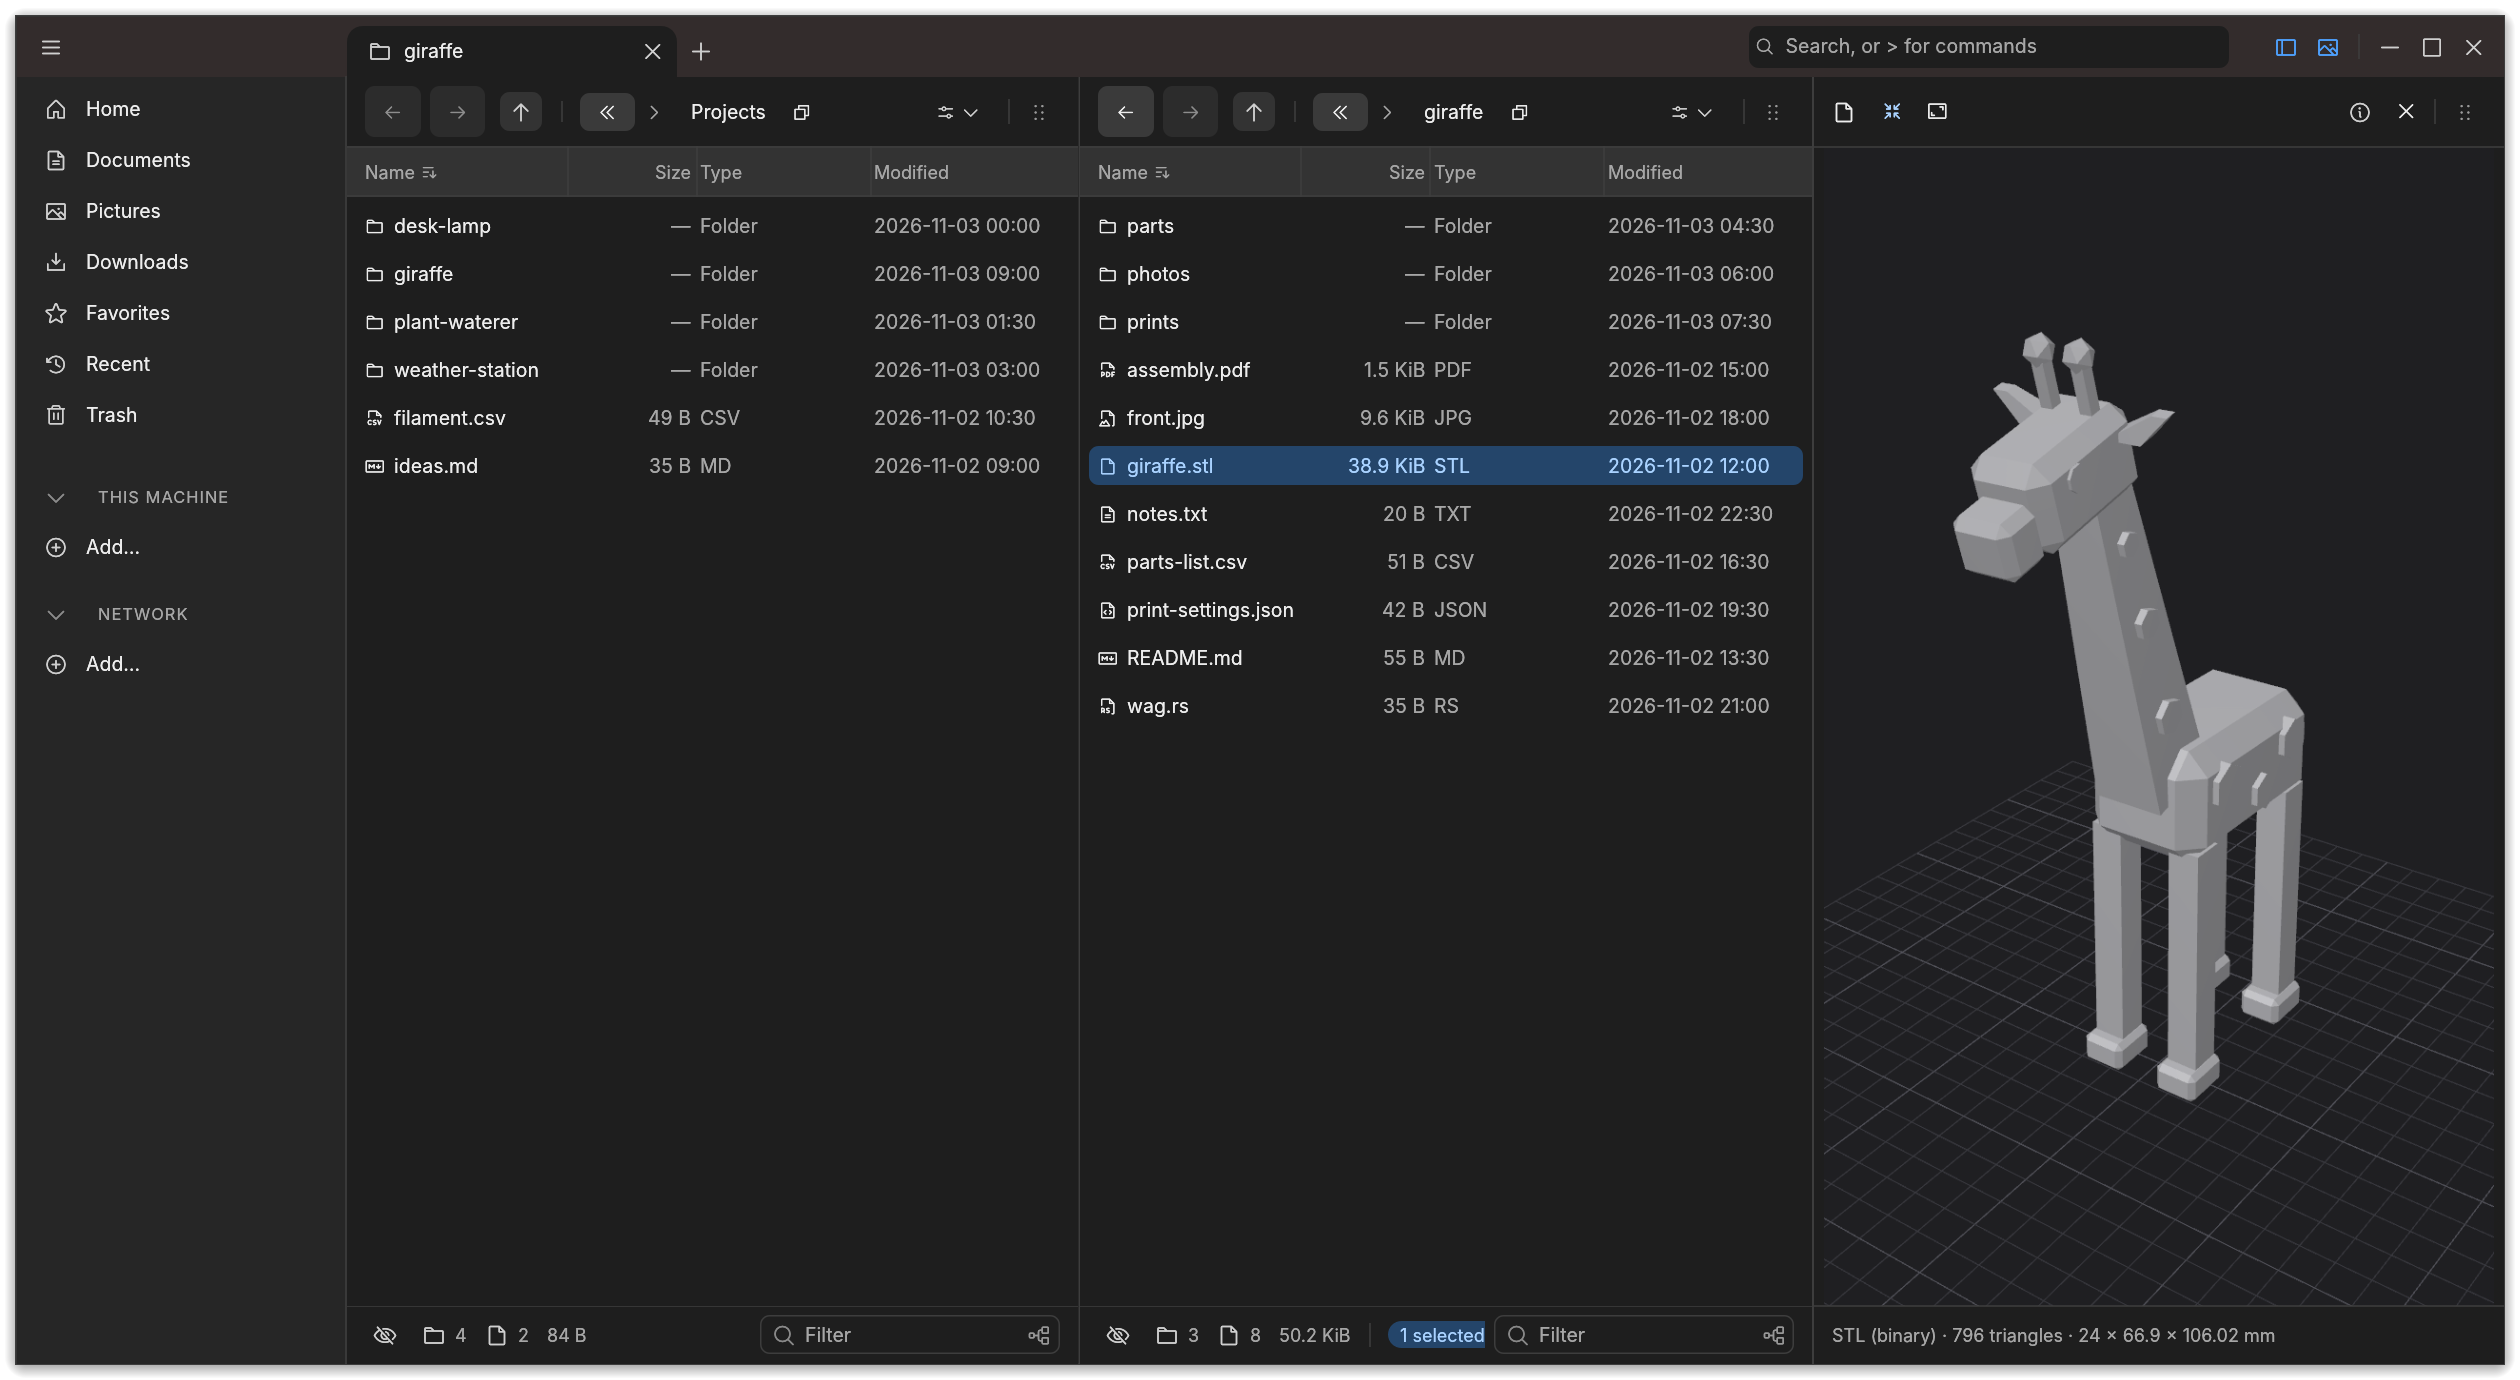
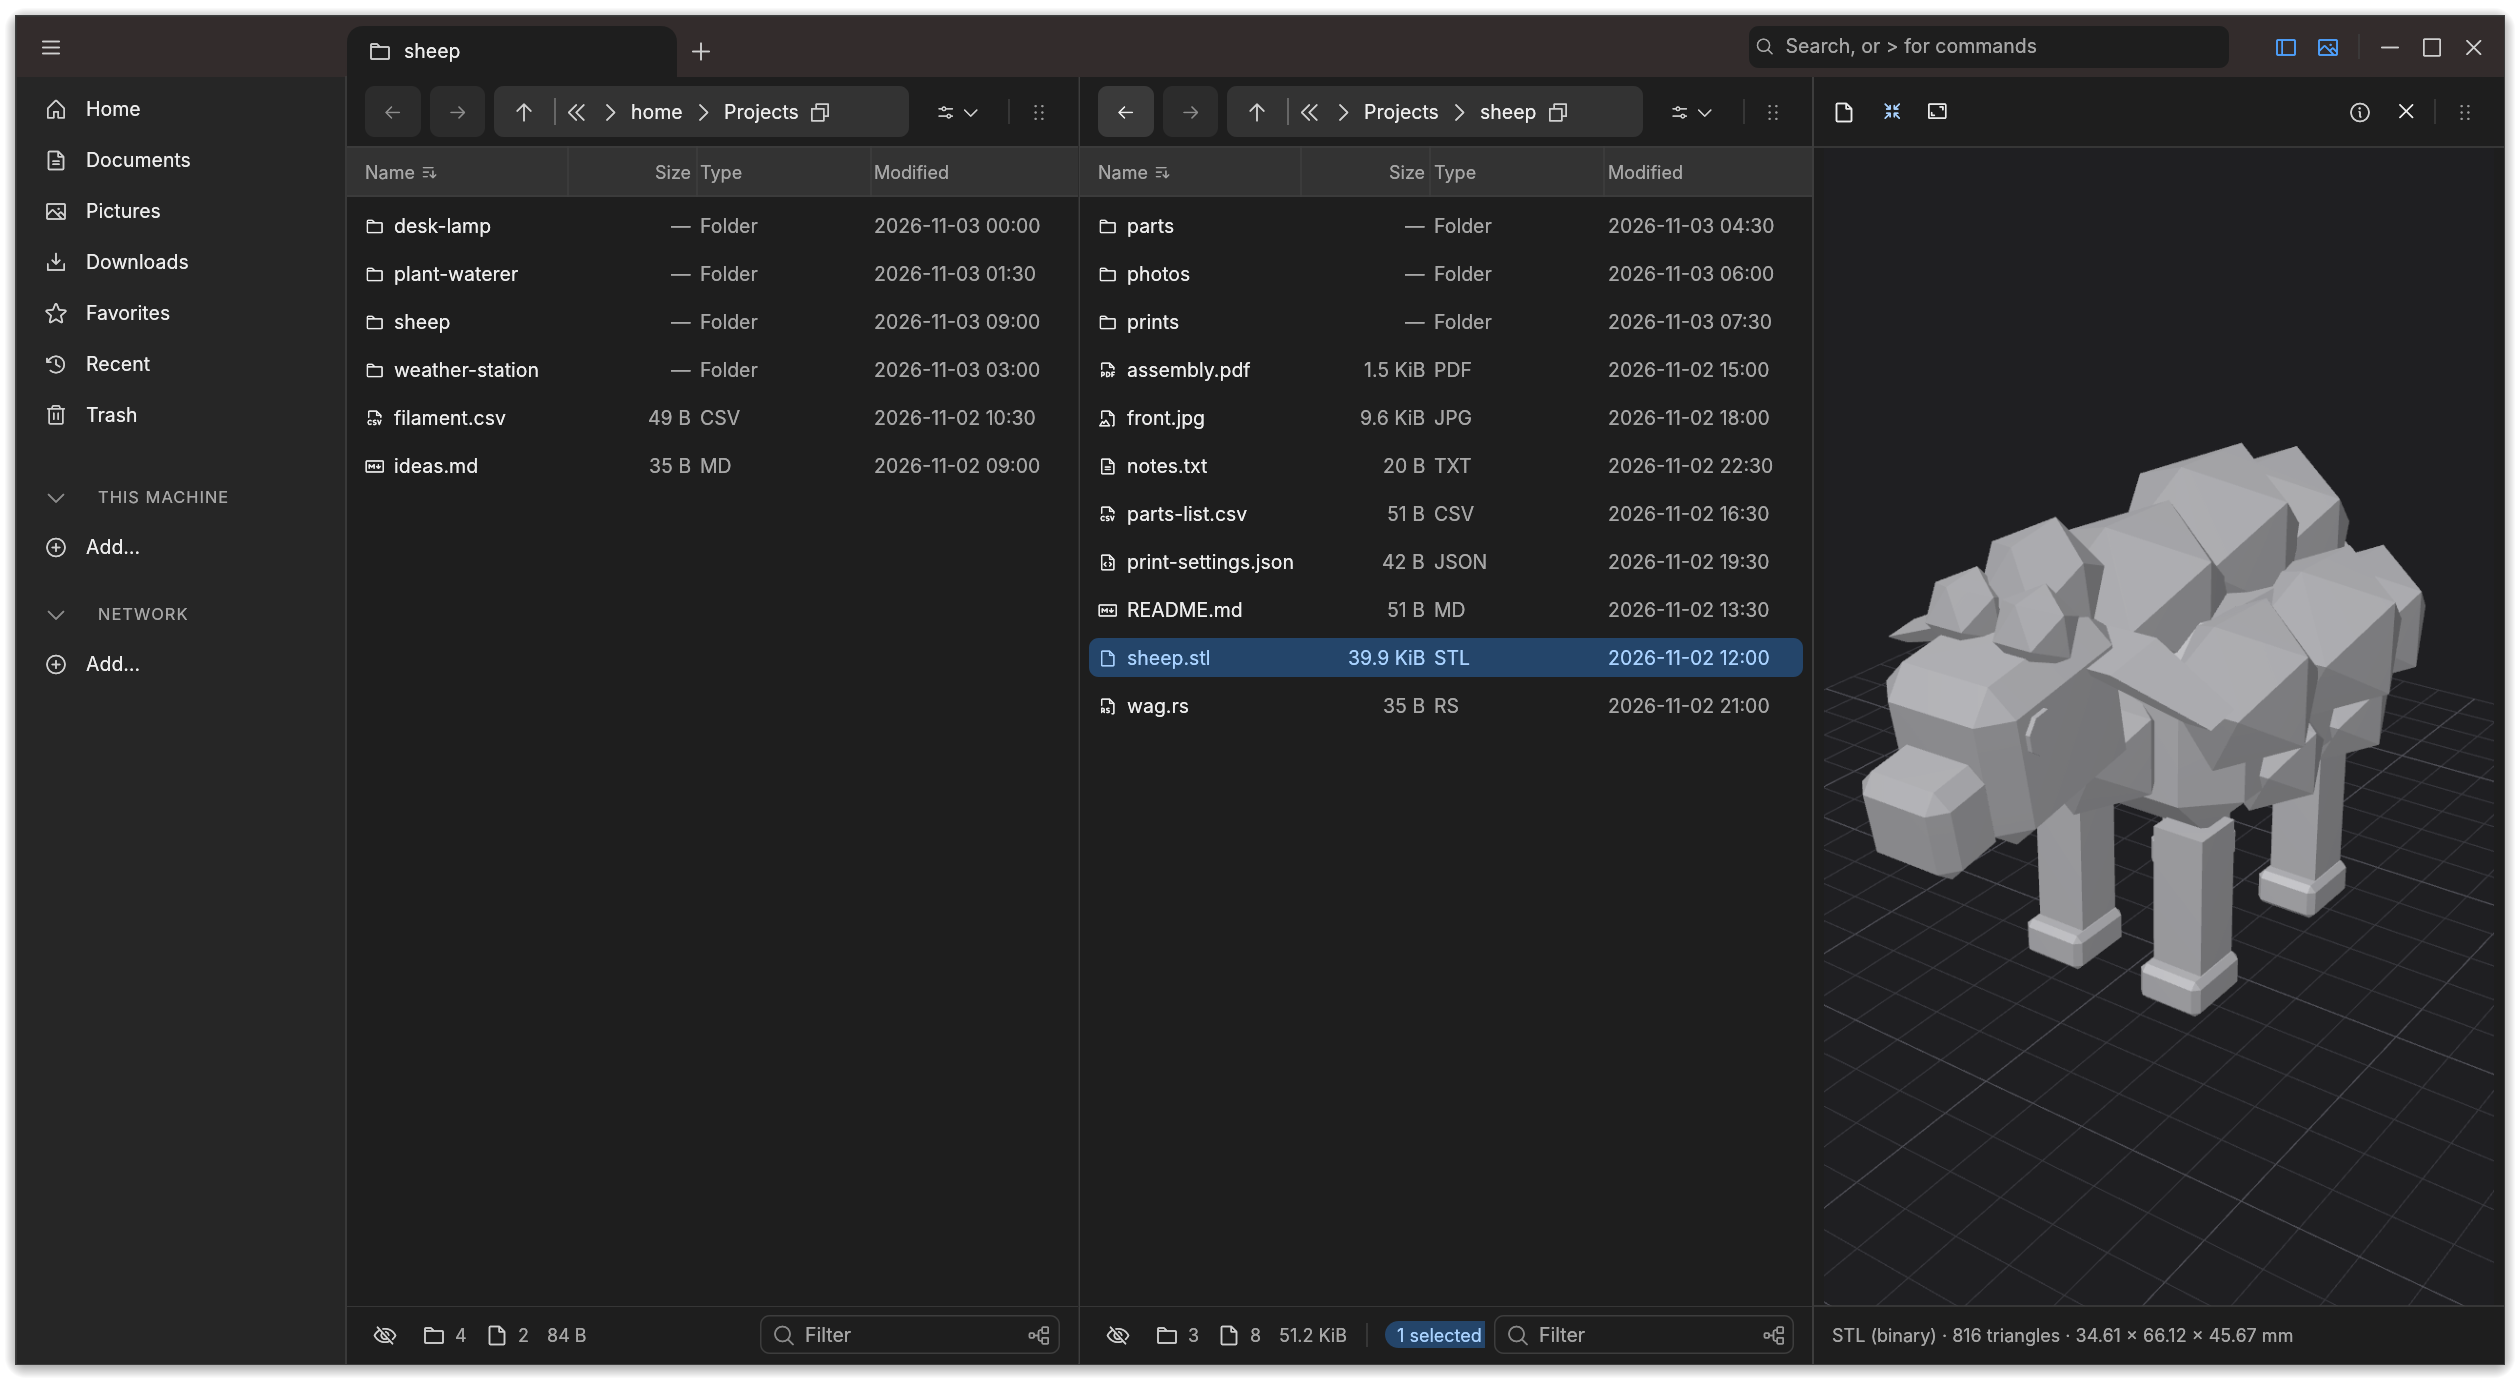
docs(readme): 0.5.0 is out
By cargo xtask readme: the status line, the call to action and the
Install links say v0.5.0, and the two screenshots are fresh, with the
sheep in the preview pane; the picture's alt text names it.

Claude-Session: https://claude.ai/code/session_01GE43LBGG7Cx2iiLFaqi5jG

diff --git a/README.md b/README.md
@@ -3,9 +3,9 @@
 Rick is a fast, lean file manager for professionals. It runs on Linux, macOS and Windows from a single codebase and behaves the same on all three. A small core does the basics; everything else comes from an extensible plugin ecosystem.
 
 <!-- generated:status -->
-v0.4.1 · Rick is early and not fully tested yet, so expect bugs. Tab navigation and some performance work are still unfinished. Please help us find what's broken and tell us what you see.
+v0.5.0 · Rick is early and not fully tested yet, so expect bugs. Tab navigation and some performance work are still unfinished. Please help us find what's broken and tell us what you see.
 
-[Download v0.4.1](#install) for Linux, macOS or Windows, try it, and tell us [what breaks](https://github.com/Open-Breach/rick/issues). [Opinions](https://github.com/Open-Breach/rick/issues) welcome too, good or bad, as long as they're respectful.
+[Download v0.5.0](#install) for Linux, macOS or Windows, try it, and tell us [what breaks](https://github.com/Open-Breach/rick/issues). [Opinions](https://github.com/Open-Breach/rick/issues) welcome too, good or bad, as long as they're respectful.
 <!-- /generated:status -->
 
 ## Why Rick exists
@@ -71,25 +71,25 @@ Coming:
 
 <picture>
   <source media="(prefers-color-scheme: dark)" srcset="docs/screenshots/readme-dark.png">
-  <img alt="Rick with two panes side by side and the preview pane showing a 3D model of a giraffe" src="docs/screenshots/readme-light.png">
+  <img alt="Rick with two panes side by side and the preview pane showing a 3D model of a sheep" src="docs/screenshots/readme-light.png">
 </picture>
 
 ## Install
 
 <!-- generated:install -->
-**Linux** · [x64](https://github.com/Open-Breach/rick/releases/download/v0.4.1/rick-0.4.1-linux-x64.tar.gz) · [arm64](https://github.com/Open-Breach/rick/releases/download/v0.4.1/rick-0.4.1-linux-arm64.tar.gz)
+**Linux** · [x64](https://github.com/Open-Breach/rick/releases/download/v0.5.0/rick-0.5.0-linux-x64.tar.gz) · [arm64](https://github.com/Open-Breach/rick/releases/download/v0.5.0/rick-0.5.0-linux-arm64.tar.gz)
 
 ```bash
-tar xzf rick-0.4.1-linux-x64.tar.gz && ./rick-0.4.1-linux-x64/rick
+tar xzf rick-0.5.0-linux-x64.tar.gz && ./rick-0.5.0-linux-x64/rick
 ```
 
 Needs glibc 2.39 or later (Ubuntu 24.04). The first start offers to set Rick up in your desktop: the launcher entry, the default file manager, the `rick` command.
 
-**macOS** · [arm64](https://github.com/Open-Breach/rick/releases/download/v0.4.1/rick-0.4.1-macos-arm64.zip)
+**macOS** · [arm64](https://github.com/Open-Breach/rick/releases/download/v0.5.0/rick-0.5.0-macos-arm64.zip)
 
 Unzip, drag `Rick.app` to Applications and open it. The app is not notarised yet: allow it under System Settings → Privacy & Security.
 
-**Windows** · [x64](https://github.com/Open-Breach/rick/releases/download/v0.4.1/rick-0.4.1-windows-x64.zip)
+**Windows** · [x64](https://github.com/Open-Breach/rick/releases/download/v0.5.0/rick-0.5.0-windows-x64.zip)
 
 Unpack and run `rick.exe`. SmartScreen may warn the first time.
 
